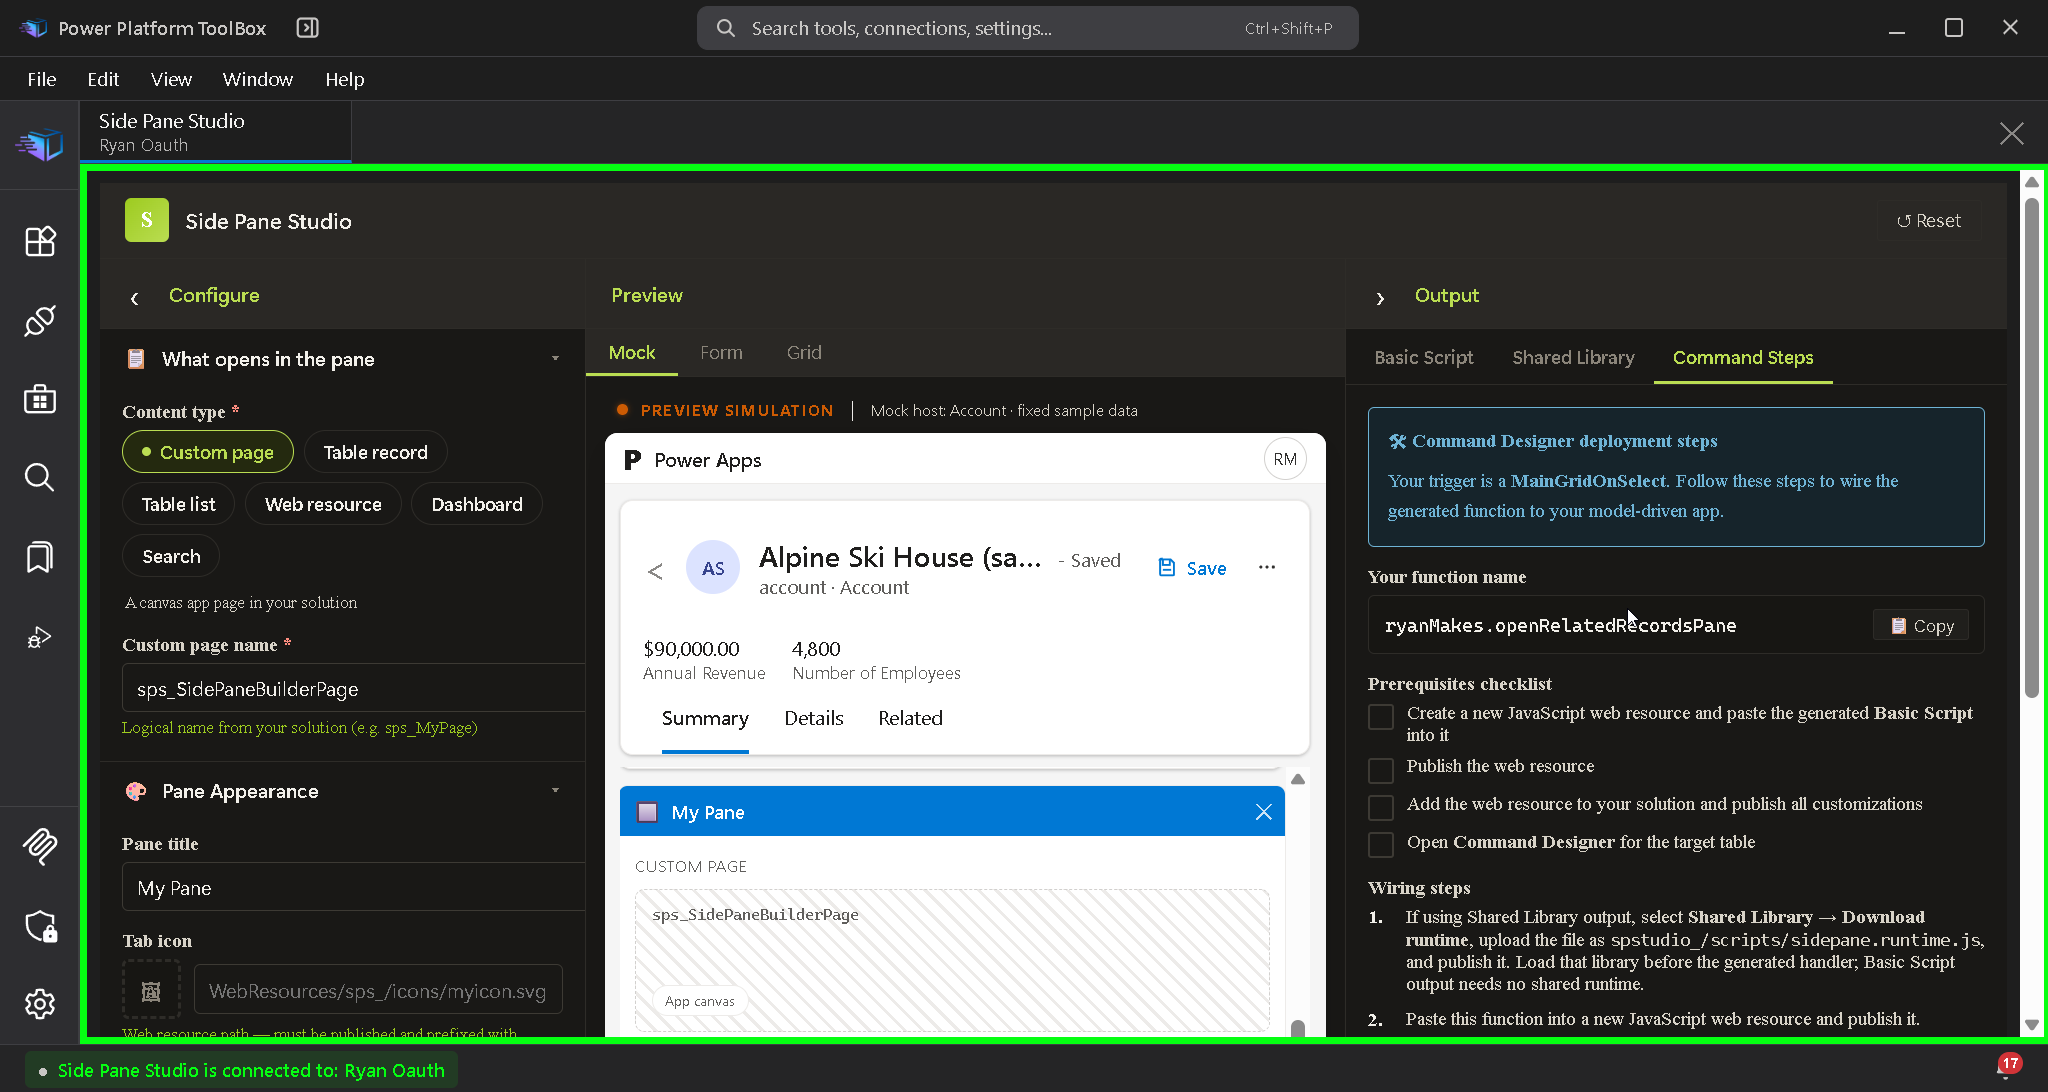
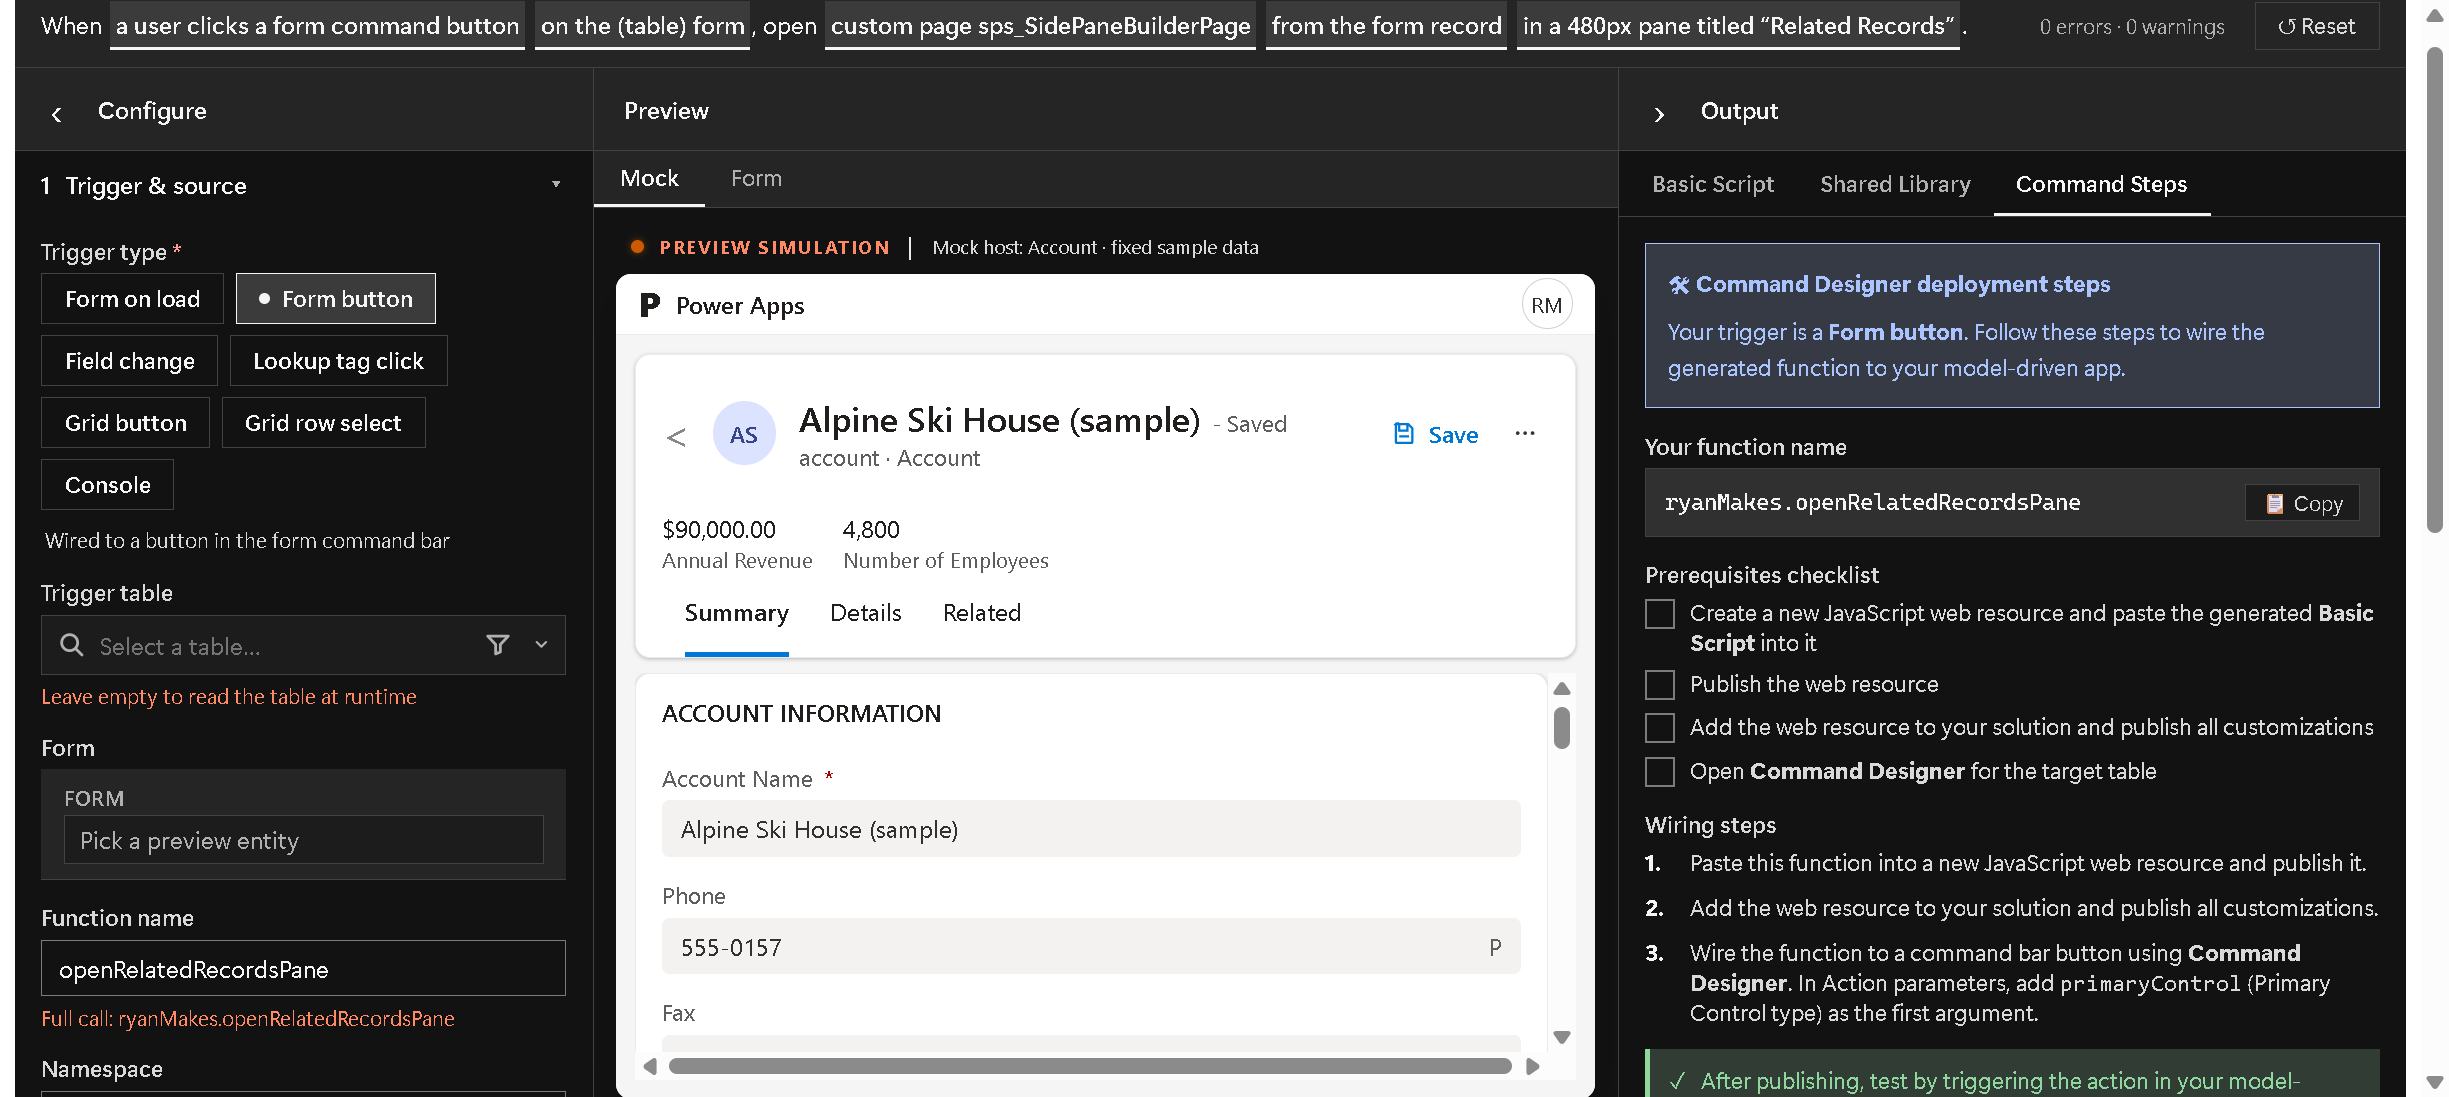
docs: recapture workbench and command-steps screenshots for v1.4.0
Replace both manual screenshots with captures from the v1.4.0 tool:
workbench-overview.png shows the summary sentence, three Configure
sections, mock preview and Basic Script; command-steps.png shows the
Command Steps tab for a Form button trigger.

Update the workbench image alt text to match and remove the two
recapture TODO comments.

diff --git a/documentation/user-manual.md b/documentation/user-manual.md
@@ -82,7 +82,7 @@ Two required fields start empty, so on a fresh default **Basic Script** shows a 
 - **Custom page** opens a canvas page that already lives in the solution. The name is the page logical name, not the display name.
 - The mock host is a fixed Account sample. It shows the pane title, width, and header so you can judge the layout. It does not load your custom page.
 
-![Side Pane Studio workbench with content type, mock preview, and Basic Script](images/workbench-overview.png)
+![Side Pane Studio workbench — summary sentence, Configure sections, mock preview, and Basic Script](images/workbench-overview.png)
 
 **Verification**:
 
